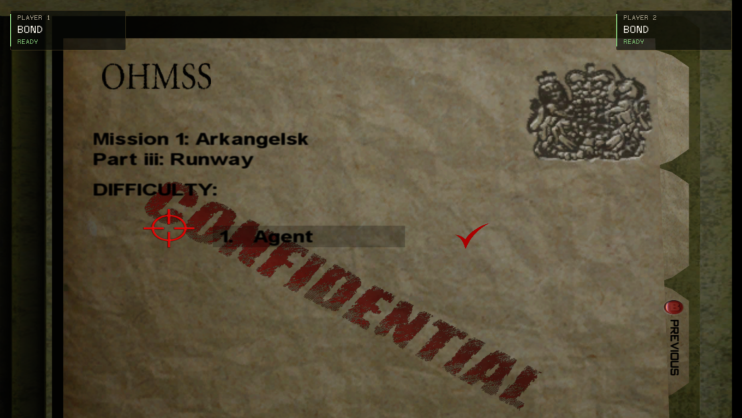
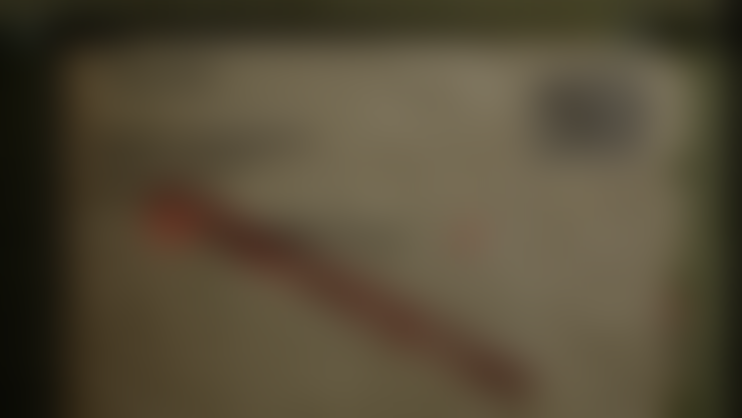
Link UC64 0.6.2-rc.6 release; blur gameplay screenshots; 3P/4P wording

diff --git a/README.md b/README.md
@@ -25,12 +25,12 @@ Do not download GitHub's automatically generated "Source code" archives.
 > Windows GoldenEye runtime. Other UC64 versions (older *or* newer) are **not** verified. Remote players must
 > use the same UC64 0.6.2-rc.6 version too.
 >
-> **The UC64 0.6.2-rc.6 download is not public yet.** It will be linked here when it is released.
-> The currently public UC64 release (0.5.8) does **not** support this package.
+> **[⬇ Download Universal Couch 64 0.6.2-rc.6](https://github.com/SzebaHUN/universal-couch/releases/tag/v0.6.2-rc.6)** (`Universal Couch_0.6.2-rc.6_x64-setup.exe` under Assets).
+> UC64 0.5.8 and other versions do **not** support this package.
 
 > [!WARNING]
 > **Experimental release.** The two-player campaign works, but the whole campaign has not been played start to finish
-> in co-op, and several issues are still open (see [Known issues](#known-issues)). Only **two players** are supported.
+> in co-op, and several issues are still open (see [Known issues](#known-issues)). Three- and four-player co-op can be enabled when the host assigns the additional participants as Players rather than Watchers. These modes are experimental and have not been validated; two-player co-op is the tested configuration.
 
 > [!NOTE]
 > **No game files are included.** You need your own copy of the GoldenEye 007 XBLA game files.
@@ -93,7 +93,7 @@ The only supported way to play is through UC64.
 | **Converter** | `GoldenEye-Coop-Converter.exe`, one file; works offline; nothing to install (uses the .NET Framework built into Windows) |
 | **Game files** | Your own complete, extracted GoldenEye 007 XBLA game folder: `default.xex`, `ArcadeInfo.xml` and the `files` folder with all its assets and audio |
[1 lines of base64/hex data omitted]
-| **To play** | **Universal Couch 64 0.6.2-rc.6** on the host, and the **same UC64 0.6.2-rc.6** on every remote player's PC (download not public yet) |
+| **To play** | **[Universal Couch 64 0.6.2-rc.6](https://github.com/SzebaHUN/universal-couch/releases/tag/v0.6.2-rc.6)** on the host, and the **same UC64 0.6.2-rc.6** on every remote player's PC |
 | **Free disk space** | About 0.8 GB for the `.uc64` package, plus the same again when UC64 installs it |
 
 This project does not provide game files or download links for them. Please don't ask for them in issues.
@@ -111,7 +111,7 @@ This project does not provide game files or download links for them. Please don'
 5. Click **CREATE PACKAGE** and choose where to save `GoldenEye 007 Co-op.uc64`. You are asked before an existing file
    is replaced. A progress bar shows the conversion (a few seconds to a minute). Your game folder is not changed.
 6. When it says **Done**, **OPEN OUTPUT FOLDER** shows the new file.
-7. Install the **matching Universal Couch 64 0.6.2-rc.6**.
+7. Install the **matching [Universal Couch 64 0.6.2-rc.6](https://github.com/SzebaHUN/universal-couch/releases/tag/v0.6.2-rc.6)** (everyone who plays installs this same version).
 8. In UC64: **Host Game** → choose (or drop) `GoldenEye 007 Co-op.uc64`. UC64 checks the package and installs it the
    first time.
 9. Host a room. Player 2 joins with the room code in **the same UC64 0.6.2-rc.6**. The host makes them a player and
@@ -157,22 +157,24 @@ Revive is implemented as described, but it was not re-tested during this release
 
 ## Screenshots
 
-These are screenshots of the actual converter and of the game running through UC64 on Windows (two-player split screen).
+The converter screenshot above is the actual program. The gameplay screenshots below are real captures of the game
+running through UC64 on Windows (two-player split screen), with the **game imagery deliberately blurred**; the captions
+describe what each one shows.
 
 <p align="center"><img src="docs/coop-briefing.png" width="600" alt="Mission briefing with both players ready"></p>
-<p align="center"><i>Mission briefing (Runway). Both players are joined; the corner cards show each player's state.</i></p>
+<p align="center"><i>Blurred: mission briefing (Runway) with both players joined; the corner cards show each player's state.</i></p>
 
 <p align="center"><img src="docs/coop-split-screen.png" width="600" alt="Two-player split screen at the start of Runway"></p>
-<p align="center"><i>Two players in the same mission, one view each.</i></p>
+<p align="center"><i>Blurred: two players in the same mission, one view each (top and bottom).</i></p>
 
 <p align="center"><img src="docs/coop-mission-tool.png" width="600" alt="Both players selecting the covert modem on Dam"></p>
-<p align="center"><i>Dam: each player holds Y to select the covert modem; the tool name appears at the top of that player's view.</i></p>
+<p align="center"><i>Blurred: Dam — each player holds Y to select the covert modem; the tool name appears at the top of that player's view.</i></p>
 
 <p align="center"><img src="docs/coop-mission-message.png" width="600" alt="Covert modem installed message in both views"></p>
-<p align="center"><i>Dam: Player 2 installs the covert modem; the mission message appears inside both players' views.</i></p>
+<p align="center"><i>Blurred: Dam — Player 2 installs the covert modem; the mission message appears inside both players' views.</i></p>
 
 <p align="center"><img src="docs/coop-mission-complete.png" width="600" alt="Runway mission report: completed"></p>
-<p align="center"><i>Runway completed in co-op through the normal menus; the mission report and save work as usual.</i></p>
+<p align="center"><i>Blurred: Runway mission report after completing it in co-op through the normal menus.</i></p>
 
 ## Tested so far
 
@@ -197,7 +199,7 @@ On two Windows laptops over a home network with UC64 (one host, one remote playe
 - **Not yet verified:** the GoldenEye key / key copy (Bunker), Frigate bomb defusers, Silo plastique, Train watch laser,
   Aztec guidance data, the watch magnet, the Facility door decoder and the bonus missions; the pause-menu objectives
   panel; the converter's drag-and-drop (Browse is verified).
-- **Three or four players:** not supported in this release (unverified).
+- **Three or four players:** Three- and four-player co-op can be enabled when the host assigns the additional participants as Players rather than Watchers. These modes are experimental and have not been validated; two-player co-op is the tested configuration.
 - **Version lock:** only UC64 0.6.2-rc.6 is supported for hosts and remote players.
 - The converter is Windows-only and not code-signed.
 
